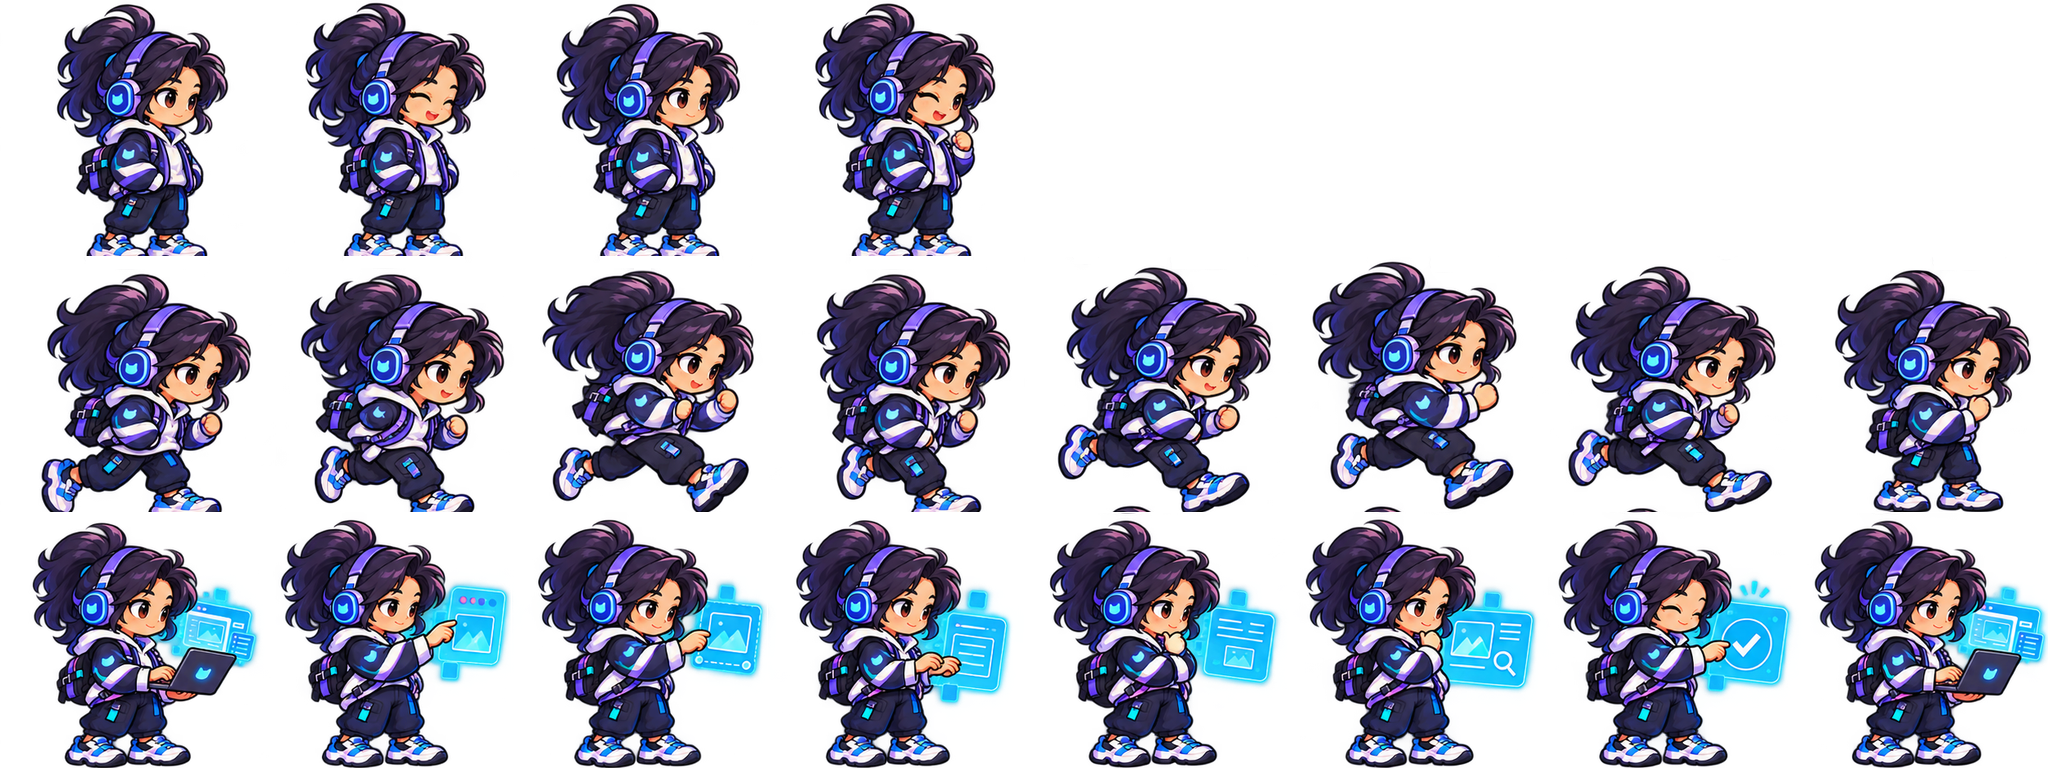
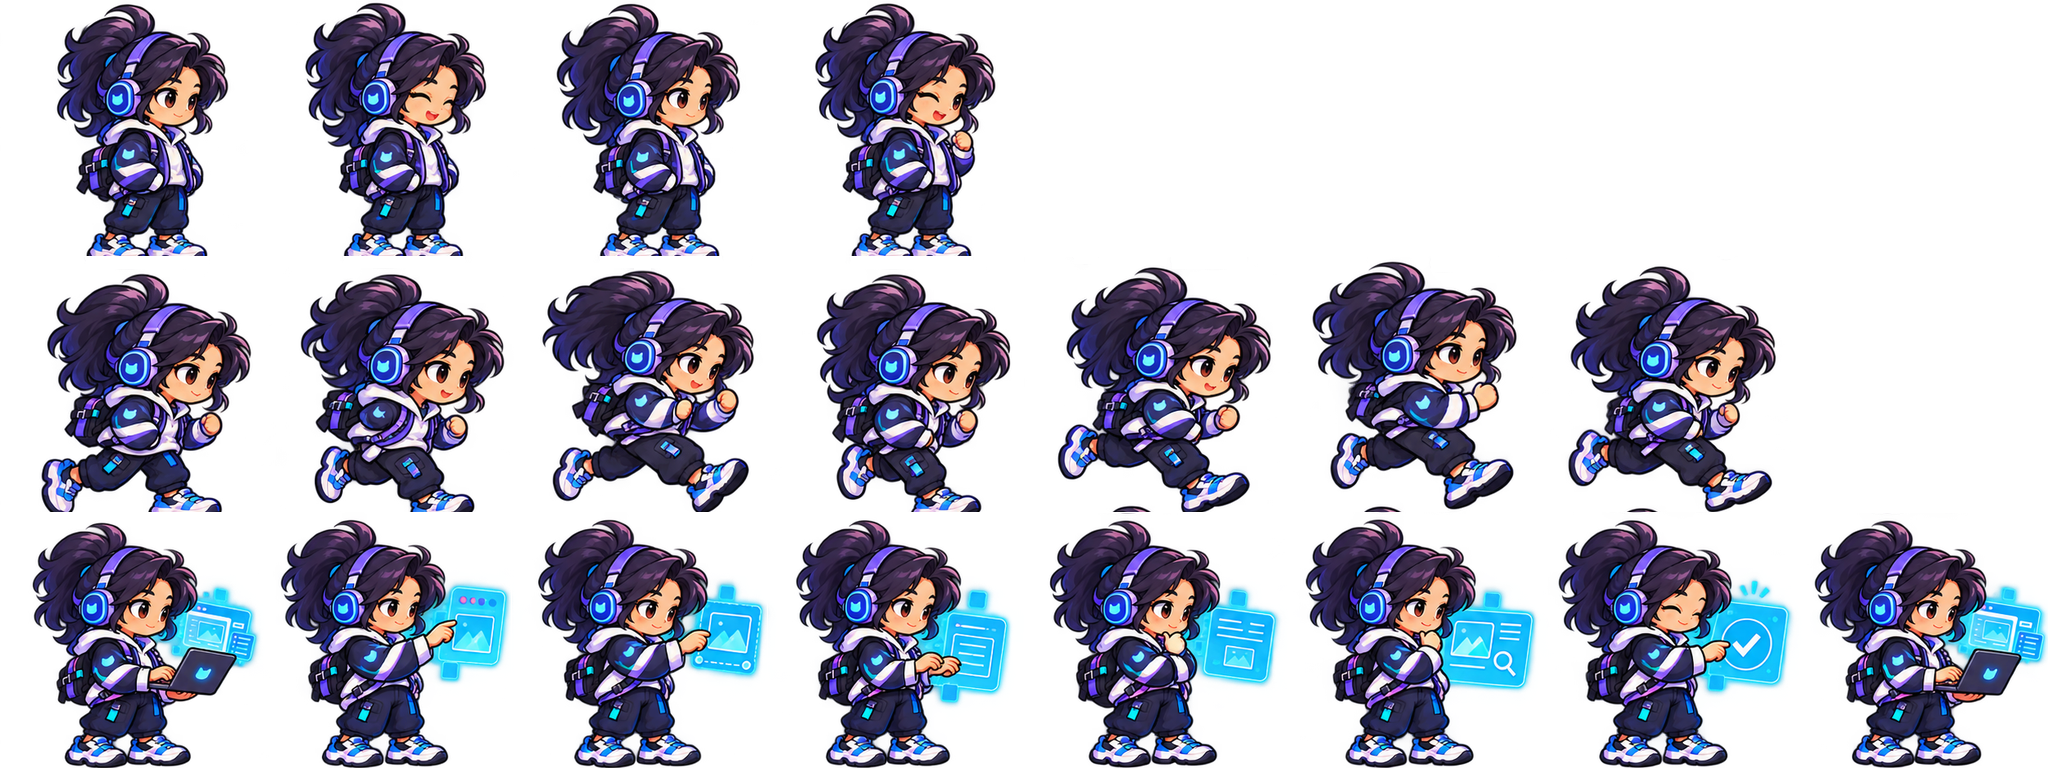
feat: 优化跑步动画节奏

Changed region(s): [[0.875, 0.3438, 1.0, 0.6875]]

diff --git a/tests/presentation/game-assets.test.ts b/tests/presentation/game-assets.test.ts
@@ -84,20 +84,29 @@ test("converts global spritesheet frame indexes to local action-frame indexes", 
   assert.equal(animationFrameOffset(working, 15), 5);
 });
 
-test("paces each run cycle to a four-unit stride at the role's real movement speed", () => {
+test("paces each run cycle across 64 world units at the role's real movement speed", () => {
   for (const role of Object.keys(ENGINEER_ANIMATIONS) as Array<keyof typeof ENGINEER_ANIMATIONS>) {
-    assert.equal(ENGINEER_ANIMATIONS[role].moving.frameRate, getEngineerDefinition(role).moveSpeed / 4);
+    const run = ENGINEER_ANIMATIONS[role].moving;
+    const cycleDistance = getEngineerDefinition(role).moveSpeed * run.frameCount / run.frameRate;
+    assert.ok(Math.abs(cycleDistance - 64) < 1e-9, `${role} run cycle length`);
   }
 });
 
-test("run animation advances every four traveled units and loops by distance", () => {
-  const definition = ENGINEER_ANIMATIONS.intern.moving;
-  const speed = getEngineerDefinition("intern").moveSpeed;
-  assert.equal(runAnimationFrameOffset(definition, 0, speed), 0);
-  assert.equal(runAnimationFrameOffset(definition, 3.99, speed), 0);
-  assert.equal(runAnimationFrameOffset(definition, 4, speed), 1);
-  assert.equal(runAnimationFrameOffset(definition, 31.99, speed), 7);
-  assert.equal(runAnimationFrameOffset(definition, 32, speed), 0);
+test("run animation advances by its stride spacing and loops by traveled distance", () => {
+  for (const role of Object.keys(ENGINEER_ANIMATIONS) as Array<keyof typeof ENGINEER_ANIMATIONS>) {
+    const definition = ENGINEER_ANIMATIONS[role].moving;
+    const speed = getEngineerDefinition(role).moveSpeed;
+    const stride = speed / definition.frameRate;
+    assert.equal(runAnimationFrameOffset(definition, 0, speed), 0);
+    assert.equal(runAnimationFrameOffset(definition, stride - 1e-6, speed), 0);
+    assert.equal(runAnimationFrameOffset(definition, stride + 1e-6, speed), 1);
+    assert.equal(runAnimationFrameOffset(definition, 64 - 1e-6, speed), definition.frameCount - 1);
+    assert.equal(runAnimationFrameOffset(definition, 64, speed), 0);
+  }
+});
+
+test("frontend run cycle excludes the standing pose at the end of its source row", () => {
+  assert.equal(ENGINEER_ANIMATIONS.frontend.moving.frameCount, 7);
 });
 
 test("ending a run selects the closest alternating contact pose", () => {

diff --git a/src/presentation/game-assets.ts b/src/presentation/game-assets.ts
@@ -126,7 +126,8 @@ export const ENGINEER_ANIMATION_SHEETS = {
   },
 } as const;
 
-// One frame per four travelled world units keeps footfalls tied to movement.
+// A full run cycle covers 64 world units; the previous four-unit stride made feet cycle too fast.
+const RUN_CYCLE_DISTANCE = 64;
 const ENGINEER_MOVE_SPEEDS: Record<EngineerId, number> = {
   intern: 58,
   frontend: 62,
@@ -134,7 +135,8 @@ const ENGINEER_MOVE_SPEEDS: Record<EngineerId, number> = {
   qa: 57,
   agent: 70
 };
-const runFrameRate = (role: EngineerId): number => ENGINEER_MOVE_SPEEDS[role] * 0.25;
+const runFrameRate = (role: EngineerId, frameCount = 8): number =>
+  ENGINEER_MOVE_SPEEDS[role] * frameCount / RUN_CYCLE_DISTANCE;
 
 export const ENGINEER_ANIMATIONS: Record<EngineerId, Record<EngineerAction, EngineerAnimationDefinition>> = {
   intern: {
@@ -144,7 +146,8 @@ export const ENGINEER_ANIMATIONS: Record<EngineerId, Record<EngineerAction, Engi
   },
   frontend: {
     idle: { start: 0, frameCount: 4, frameRate: 6 },
-    moving: { start: 8, frameCount: 8, frameRate: runFrameRate("frontend") },
+    // The final source cell is a standing pose, so it is intentionally not part of the run loop.
+    moving: { start: 8, frameCount: 7, frameRate: runFrameRate("frontend", 7) },
     working: { start: 16, frameCount: 8, frameRate: 8 }
   },
   backend: {

diff --git a/scripts/prepare-engineer-sprite-sheets.py b/scripts/prepare-engineer-sprite-sheets.py
@@ -151,14 +151,14 @@ def build() -> None:
     tester_work = Image.open(GENERATED / "tester-work-candidate.png").convert("RGBA")
 
     generated = {
-        "frontend": (frontend, frontend_work, (4, 8, 8)),
+        "frontend": (frontend, frontend_work, (4, 7, 8)),
         "tester": (tester, tester_work, (4, 8, 8)),
     }
     for role, (mixed, work, counts) in generated.items():
         result = Image.new("RGBA", (COLUMNS * FRAME, 3 * FRAME), (0, 0, 0, 0))
-        # Mixed sheet layout: 4 idle, 8 run, 4 work in a 4x4 grid.
+        # Mixed sheet layout: 4 idle, up to 8 run, 4 work in a 4x4 grid.
         idle = numbered_grid(mixed, [0, 1, 2, 3], 4, 4)
-        run = numbered_grid(mixed, list(range(4, 12)), 4, 4)
+        run = numbered_grid(mixed, list(range(4, 11 if role == "frontend" else 12)), 4, 4)
         # Dedicated work sheet: the first two rows are a full 8-pose work cycle.
         work_frames = numbered_grid(work, list(range(8)), 4, 4)
         # The concept sheets have row-boundary bleed in both frontend and QA

diff --git a/assets-inbox/generated-character-art/animation-sheets/README.md b/assets-inbox/generated-character-art/animation-sheets/README.md
@@ -4,13 +4,13 @@ Runtime sheets live in `public/assets/game/animations/`. They are transparent RG
 
 | Role | Source | Idle frames / FPS | Run frames / FPS | Work frames / FPS |
 | --- | --- | ---: | ---: | ---: |
-| Intern | `source/supplied-intern-sheet.png` | 6 / 6 | 8 / 14 | 6 / 8 |
-| Frontend | `source/frontend-mixed-candidate.png` + `source/frontend-work-candidate.png` | 4 / 6 | 8 / 14 | 8 / 8 |
-| Backend | `source/supplied-backend-sheet.png` | 6 / 6 | 8 / 14 | 6 / 8 |
-| Tester | `source/tester-mixed-candidate.png` + `source/tester-work-candidate.png` | 4 / 6 | 8 / 14 | 8 / 8 |
-| AI Agent | `source/supplied-agent-sheet.png` | 6 / 7 | 8 / 14 | 6 / 10 |
+| Intern | `source/supplied-intern-sheet.png` | 6 / 6 | 8 / 7.3 | 6 / 8 |
+| Frontend | `source/frontend-mixed-candidate.png` + `source/frontend-work-candidate.png` | 4 / 6 | 7 / 6.8 | 8 / 8 |
+| Backend | `source/supplied-backend-sheet.png` | 6 / 6 | 8 / 6.8 | 6 / 8 |
+| Tester | `source/tester-mixed-candidate.png` + `source/tester-work-candidate.png` | 4 / 6 | 8 / 7.1 | 8 / 8 |
+| AI Agent | `source/supplied-agent-sheet.png` | 6 / 7 | 8 / 8.8 | 6 / 10 |
 
-Rows start at frame 0 (Idle), 8 (Run), and 16 (Work). Unused cells are transparent, never duplicate frames. The v3 Frontend and Tester sheets were excluded because they reuse the Intern-like character design; the generated alternatives are based on the project’s supplied individual Frontend and Tester illustrations. Small disconnected row-edge fragments in generated Frontend and Tester sheets are removed by `scripts/prepare-engineer-sprite-sheets.py`; source art remains unchanged here for review.
+Rows start at frame 0 (Idle), 8 (Run), and 16 (Work). Unused cells are transparent, never duplicate frames. Frontend uses seven Run cells because the eighth candidate is a standing pose that causes a visible hitch at the loop boundary. The v3 Frontend and Tester sheets were excluded because they reuse the Intern-like character design; the generated alternatives are based on the project’s supplied individual Frontend and Tester illustrations. Small disconnected row-edge fragments in generated Frontend and Tester sheets are removed by `scripts/prepare-engineer-sprite-sheets.py`; source art remains unchanged here for review.
 
 The three supplied sheets needed to rebuild the runtime files are kept individually under `source/`; the full source archive was removed from Git history. Rebuild the normalized runtime sheets with Python 3 and Pillow:
 
@@ -18,4 +18,4 @@ The three supplied sheets needed to rebuild the runtime files are kept individua
 python3 scripts/prepare-engineer-sprite-sheets.py
 ```
 
-Static contact sheet for the current normalized frames: `assets-inbox/generated-character-art/animation-sheets/preview/engineer-frames-contact.jpg` (review aid; not a runtime dependency).
+Static contact sheet for source pose review: `assets-inbox/generated-character-art/animation-sheets/preview/engineer-frames-contact.jpg` (review aid; the runtime Frontend loop omits the final standing candidate, and the contact sheet is not a runtime dependency).
